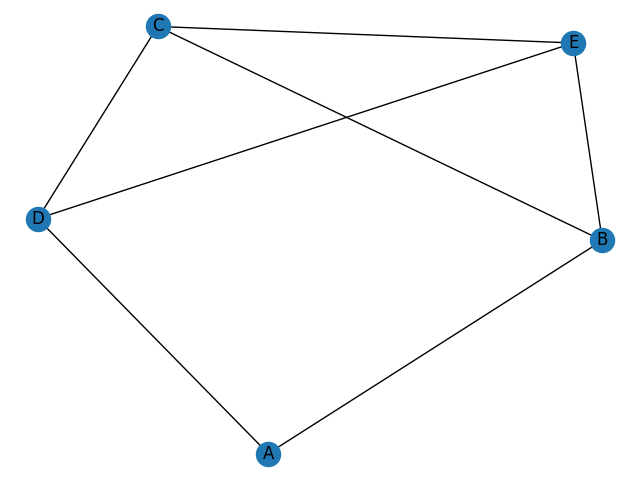
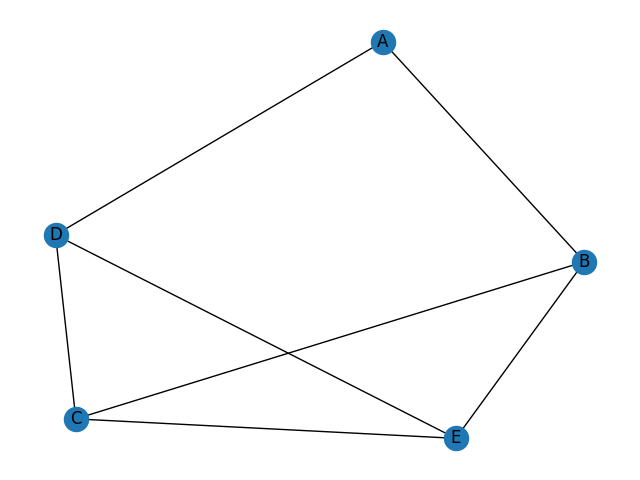
Add new graph Change drawing algorithm

diff --git a/project/copNumberChecker.py b/project/copNumberChecker.py
@@ -150,9 +150,23 @@ class CopNumberChecker:
 
     @staticmethod
     def checkCopNumberN(g: Graph, n: int, active: bool):
+
+        cmbGraph = CopNumberChecker.generate_combo_graph(g, n, active)
+
+        CopNumberChecker.markComboGraph(cmbGraph)
+
+        # print(cmbGraph.unmarked_list())
+        if len(cmbGraph.unmarked_list()) == 0:
+            # This means all combinations are marked
+            return True
+        else:
+            return False
+
+
+    @staticmethod
+    def generate_combo_graph(g: Graph, n: int, active: bool):
         # first define the lists of combinations
         comboList = list(itertools.product(g.get_key_list(), repeat=n+1))
-
         cmbGraph = MultiComboGraph(force_movement=active)
 
         print("GENERATING COMBO GRAPH")
@@ -221,7 +235,11 @@ class CopNumberChecker:
         #     print("Added edges for combo " + cmb.name)
 
         # print(cmbGraph)
+        return cmbGraph
 
+
+    @staticmethod
+    def markComboGraph(cmbGraph: MultiComboGraph):
         newMarked = True
         iterations = 0
         while newMarked:
@@ -253,10 +271,3 @@ class CopNumberChecker:
         print("\n=============== AFTER MARKING =================")
         print("Iterations " + str(iterations))
         # print(cmbGraph)
-
-        # print(cmbGraph.unmarked_list())
-        if len(cmbGraph.unmarked_list()) == 0:
-            # This means all combinations are marked
-            return True
-        else:
-            return False

diff --git a/drawGraph.py b/drawGraph.py
@@ -1,8 +1,23 @@
 import sys
 import json
 
+import graphviz
 import networkx as nx
 import matplotlib.pyplot as plt
+
+
+def getGraphViz(graph: nx.Graph, name):
+    viz = graphviz.Graph(name, format='png', engine='dot')
+
+    for n in list(graph.nodes):
+        viz.node(n)
+
+    for e in list(graph.edges):
+        viz.edge(e[0], e[1])
+
+    # viz.attr(rankdir='LR')
+
+    return viz
 
 
 # default graph is the square
@@ -22,5 +37,13 @@ lines = [line + ' ' + ' '.join(data[line]) for line in data]
 
 graph = nx.parse_adjlist(lines, nodetype=str)
 
-nx.draw(graph, with_labels = True)
-plt.savefig('graphs/' + graphName + '.png')
+# OLD WAY OF DRAWING
+# nx.draw(graph, with_labels = True, node_color="#ffffff")
+# nx.draw(graph, with_labels = True)
+# plt.savefig('graphs/' + graphName + '.png')
+
+vizGeraph = getGraphViz(graph, graphName)
+vizGeraph.render(directory='graphViz')
+
+# path = 'graphViz/' + graphName
+# nx.write_graphml(graph, 'graphViz/')

diff --git a/project/models/graph.py b/project/models/graph.py
@@ -111,6 +111,19 @@ class MultiComboGraph(object):
         if not self.directed:
             c2.add_edge(c1)
 
+    def get_edges(self):
+        edgeList = []
+        for cmb in self.vList:
+            for adj in cmb.adjacent:
+                edge = (cmb.name, adj.name)
+                edgeList.append(edge)
+
+        return edgeList
+
+    @staticmethod
+    def get_vertex_keys(vList):
+        return list(map(lambda v: v.name, vList))
+
     def marked_list(self):
         return list(filter(lambda v: v.marked, self.vList))
 
